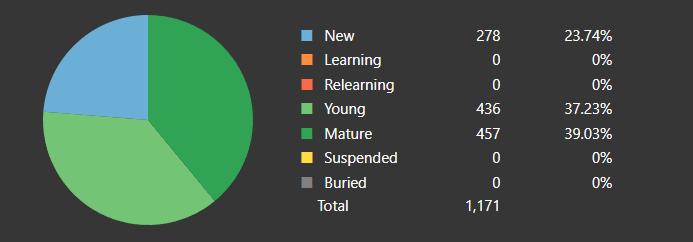
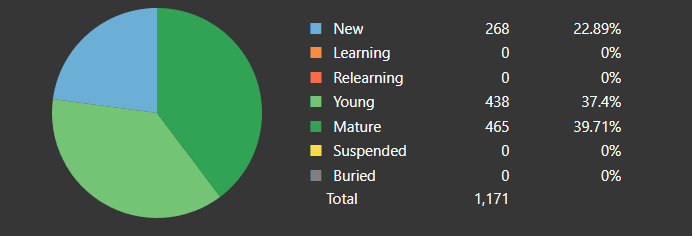
Deployed 2a8d531 with MkDocs version: 1.5.3

diff --git a/index.html b/index.html
@@ -423,15 +423,15 @@
       <ul class="md-nav__list">
         
           <li class="md-nav__item">
-  <a href="#tango-n5-as-of-111223" class="md-nav__link">
-    Tango N5 as of 11/12/23
+  <a href="#tango-n5-as-of-111323" class="md-nav__link">
+    Tango N5 as of 11/13/23
   </a>
   
 </li>
         
           <li class="md-nav__item">
-  <a href="#tango-n4-as-of-111223" class="md-nav__link">
-    Tango N4 as of 11/12/23
+  <a href="#tango-n4-as-of-111323" class="md-nav__link">
+    Tango N4 as of 11/13/23
   </a>
   
 </li>
@@ -1920,15 +1920,15 @@
       <ul class="md-nav__list">
         
           <li class="md-nav__item">
-  <a href="#tango-n5-as-of-111223" class="md-nav__link">
-    Tango N5 as of 11/12/23
+  <a href="#tango-n5-as-of-111323" class="md-nav__link">
+    Tango N5 as of 11/13/23
   </a>
   
 </li>
         
           <li class="md-nav__item">
-  <a href="#tango-n4-as-of-111223" class="md-nav__link">
-    Tango N4 as of 11/12/23
+  <a href="#tango-n4-as-of-111323" class="md-nav__link">
+    Tango N4 as of 11/13/23
   </a>
   
 </li>
@@ -1995,13 +1995,13 @@
 
 <h1 id="docjp-landing-page">doc.jp Landing Page<a class="headerlink" href="#docjp-landing-page" title="Permanent link">&para;</a></h1>
 <h2 id="anki-deck-card-counts">Anki Deck Card Counts<a class="headerlink" href="#anki-deck-card-counts" title="Permanent link">&para;</a></h2>
-<h3 id="tango-n5-as-of-111223">Tango N5 as of 11/12/23<a class="headerlink" href="#tango-n5-as-of-111223" title="Permanent link">&para;</a></h3>
-<p><strong>893</strong> vocabulary words known with <strong>278</strong> new cards remaining </p>
+<h3 id="tango-n5-as-of-111323">Tango N5 as of 11/13/23<a class="headerlink" href="#tango-n5-as-of-111323" title="Permanent link">&para;</a></h3>
+<p><strong>903</strong> vocabulary words known with <strong>268</strong> new cards remaining </p>
 <ul>
 <li>On track to finish all new cards on <strong>12/10/23</strong> doing <strong>10</strong> new cards a day.</li>
 </ul>
 <p><img align="center" alt="Card Counts" src="assets/anki-stats/n5-card-counts.png" /></p>
-<h3 id="tango-n4-as-of-111223">Tango N4 as of 11/12/23<a class="headerlink" href="#tango-n4-as-of-111223" title="Permanent link">&para;</a></h3>
+<h3 id="tango-n4-as-of-111323">Tango N4 as of 11/13/23<a class="headerlink" href="#tango-n4-as-of-111323" title="Permanent link">&para;</a></h3>
 <p><strong>0</strong> vocabulary words known with <strong>917</strong> new cards remaining: Haven't started this deck yet.</p>
 <p><img align="center" alt="Card Counts" src="assets/anki-stats/n4-card-counts.png" /></p>
 <h2 id="grammar-learning">Grammar Learning<a class="headerlink" href="#grammar-learning" title="Permanent link">&para;</a></h2>
